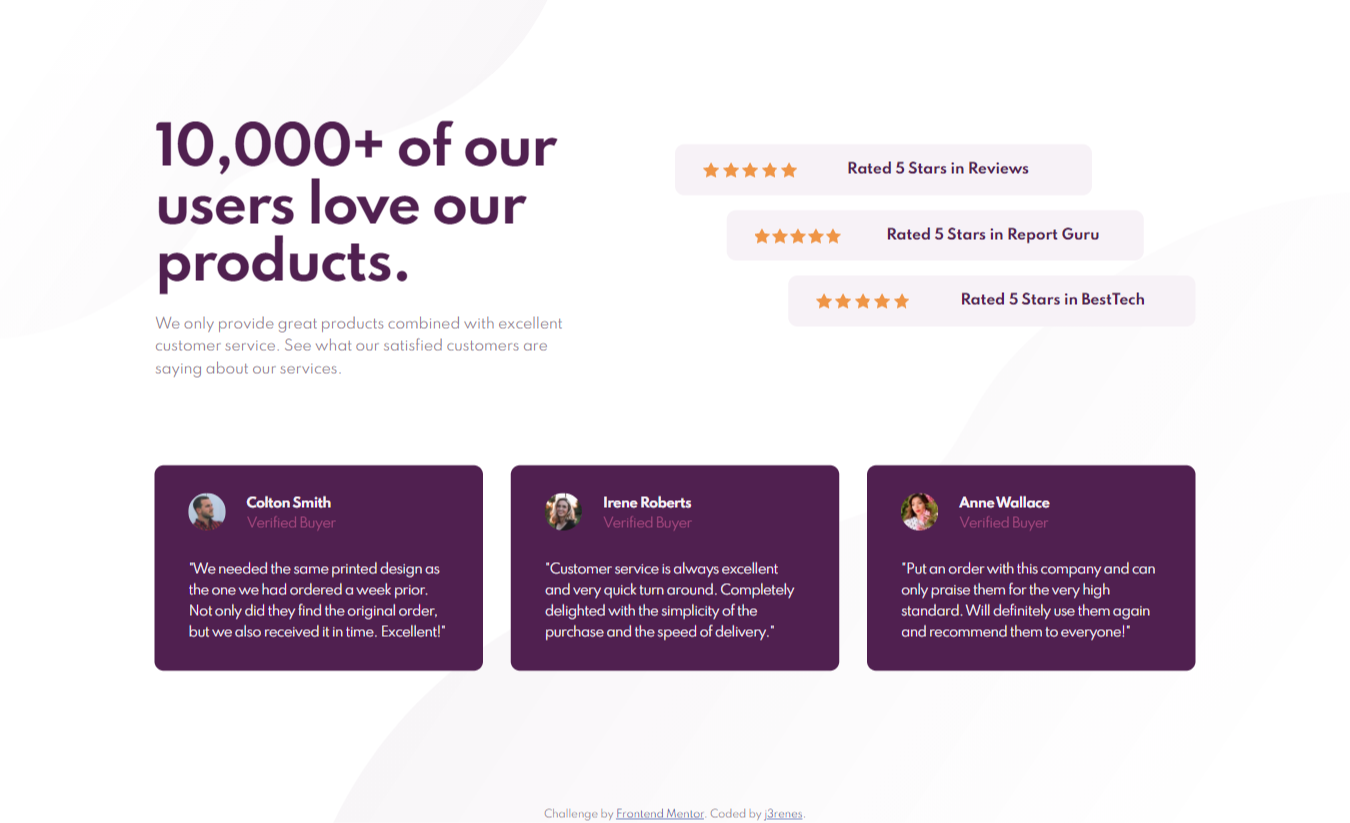
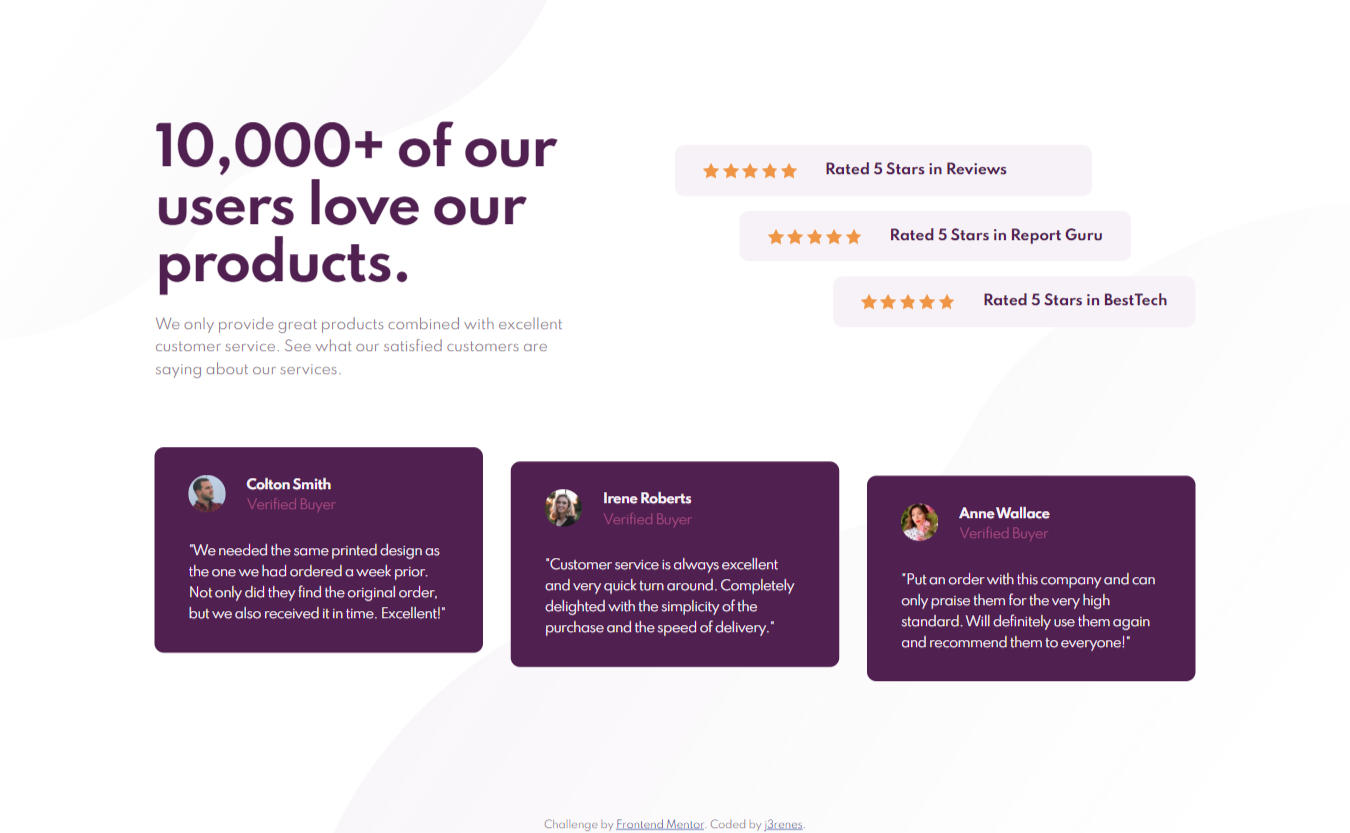
Quotes Desktop OK

diff --git a/index.html b/index.html
@@ -47,7 +47,7 @@
       </section>
 
       <section class="quotes-container">
-        <article class="quote">
+        <article class="quote" id="quote01">
           <div class="quote-header">
             <img src="images/image-colton.jpg" alt="" class="quote-image" />
             <h3 class="name">Colton Smith</h3>
@@ -59,7 +59,7 @@
           </blockquote>
         </article>
 
-        <article class="quote">
+        <article class="quote" id="quote02">
           <div class="quote-header">
             <img src="images/image-irene.jpg" alt="" class="quote-image" />
             <h3 class="name">Irene Roberts</h3>
@@ -71,7 +71,7 @@
           </blockquote>
         </article>
 
-        <article class="quote">
+        <article class="quote" id="quote03">
           <div class="quote-header">
             <img src="images/image-anne.jpg" alt="" class="quote-image" />
             <h3 class="name">Anne Wallace</h3>

diff --git a/style.css b/style.css
@@ -199,21 +199,35 @@ blockquote {
     margin: 0;
   }
 
-  .quotes-container {
-    display: flex;
-    justify-content: space-between;
-    padding-top: 8rem;
-  }
-
-  .quote {
-    max-width: 35rem;
-  }
-
   #rate02 {
     align-self: center;
   }
 
   #rate03 {
+    align-self: flex-end;
+  }
+
+  .quotes-container {
+    display: flex;
+    justify-content: space-between;
+    margin-top: 6rem;
+    height: 26.5rem;
+  }
+
+  .quote {
+    max-width: 35rem;
+    max-height: 23.5rem;
+  }
+
+  #quote01 {
+    align-self: flex-start;
+  }
+
+  #quote02 {
+    align-self: center;
+  }
+
+  #quote03 {
     align-self: flex-end;
   }
 }
